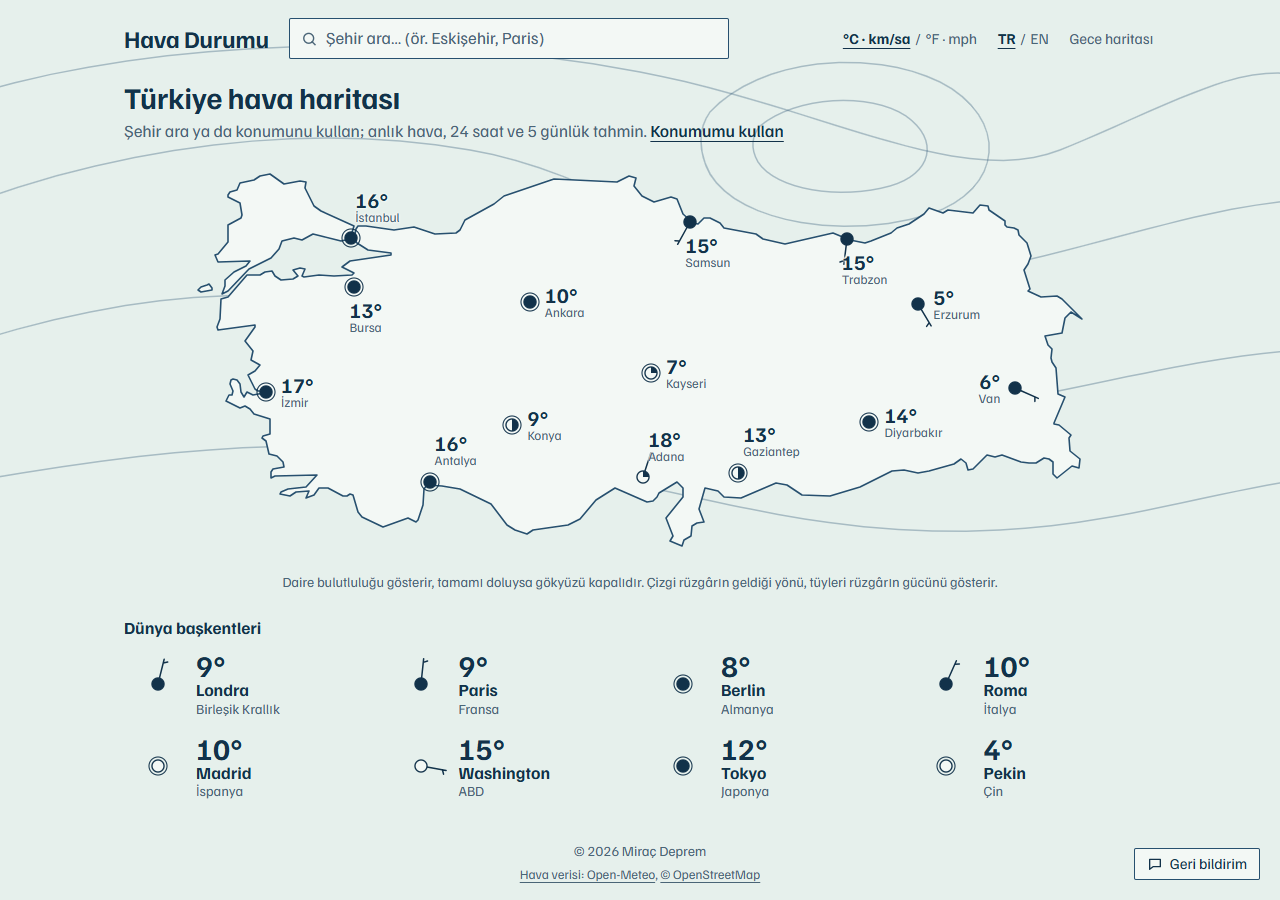
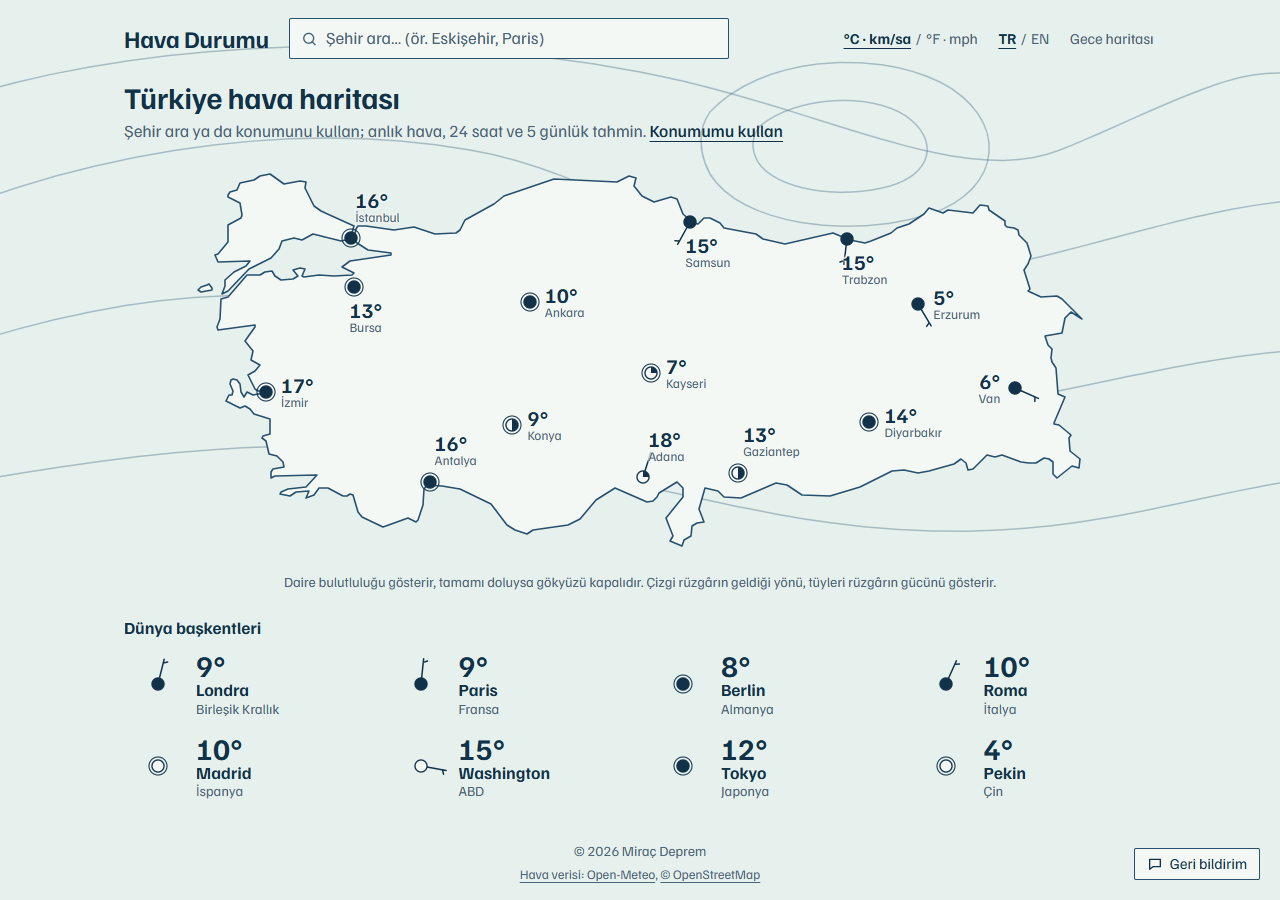
docs(readme): refresh images with the correct font

Changed region(s): [[0.2188, 0.6222, 0.7812, 0.6533], [0.3125, 0.1244, 0.625, 0.1556], [0.6562, 0.0311, 0.9062, 0.0622]]

diff --git a/README.tr.md b/README.tr.md
@@ -48,7 +48,7 @@ Sade HTML, CSS ve JavaScript ile yazılmış bir hava durumu uygulaması. Bir ş
 - [Open-Meteo](https://open-meteo.com): tahminler ve dünya şehirleri araması (GeoNames)
 - komoot'un [Photon](https://photon.komoot.io) servisi: Türkiye içi arama (OpenStreetMap)
 - [BigDataCloud](https://www.bigdatacloud.com/free-api/free-reverse-geocode-to-city-api): konumun adı
-- `node --test`: 75 birim testi
+- `node --test`: 76 birim testi
 - Sıkı bir Content Security Policy ile Vercel
 - **API anahtarı ve npm bağımlılığı yok**
 

diff --git a/README.md b/README.md
@@ -48,7 +48,7 @@ A weather app in plain HTML, CSS and JavaScript. Search any city or district, or
 - [Open-Meteo](https://open-meteo.com): forecasts and world city search (GeoNames)
 - [Photon](https://photon.komoot.io) by komoot: search in Türkiye (OpenStreetMap)
 - [BigDataCloud](https://www.bigdatacloud.com/free-api/free-reverse-geocode-to-city-api): the name of your location
-- `node --test`: 75 unit tests
+- `node --test`: 76 unit tests
 - Vercel, with a strict Content Security Policy
 - **No API keys and no npm dependencies**
 
